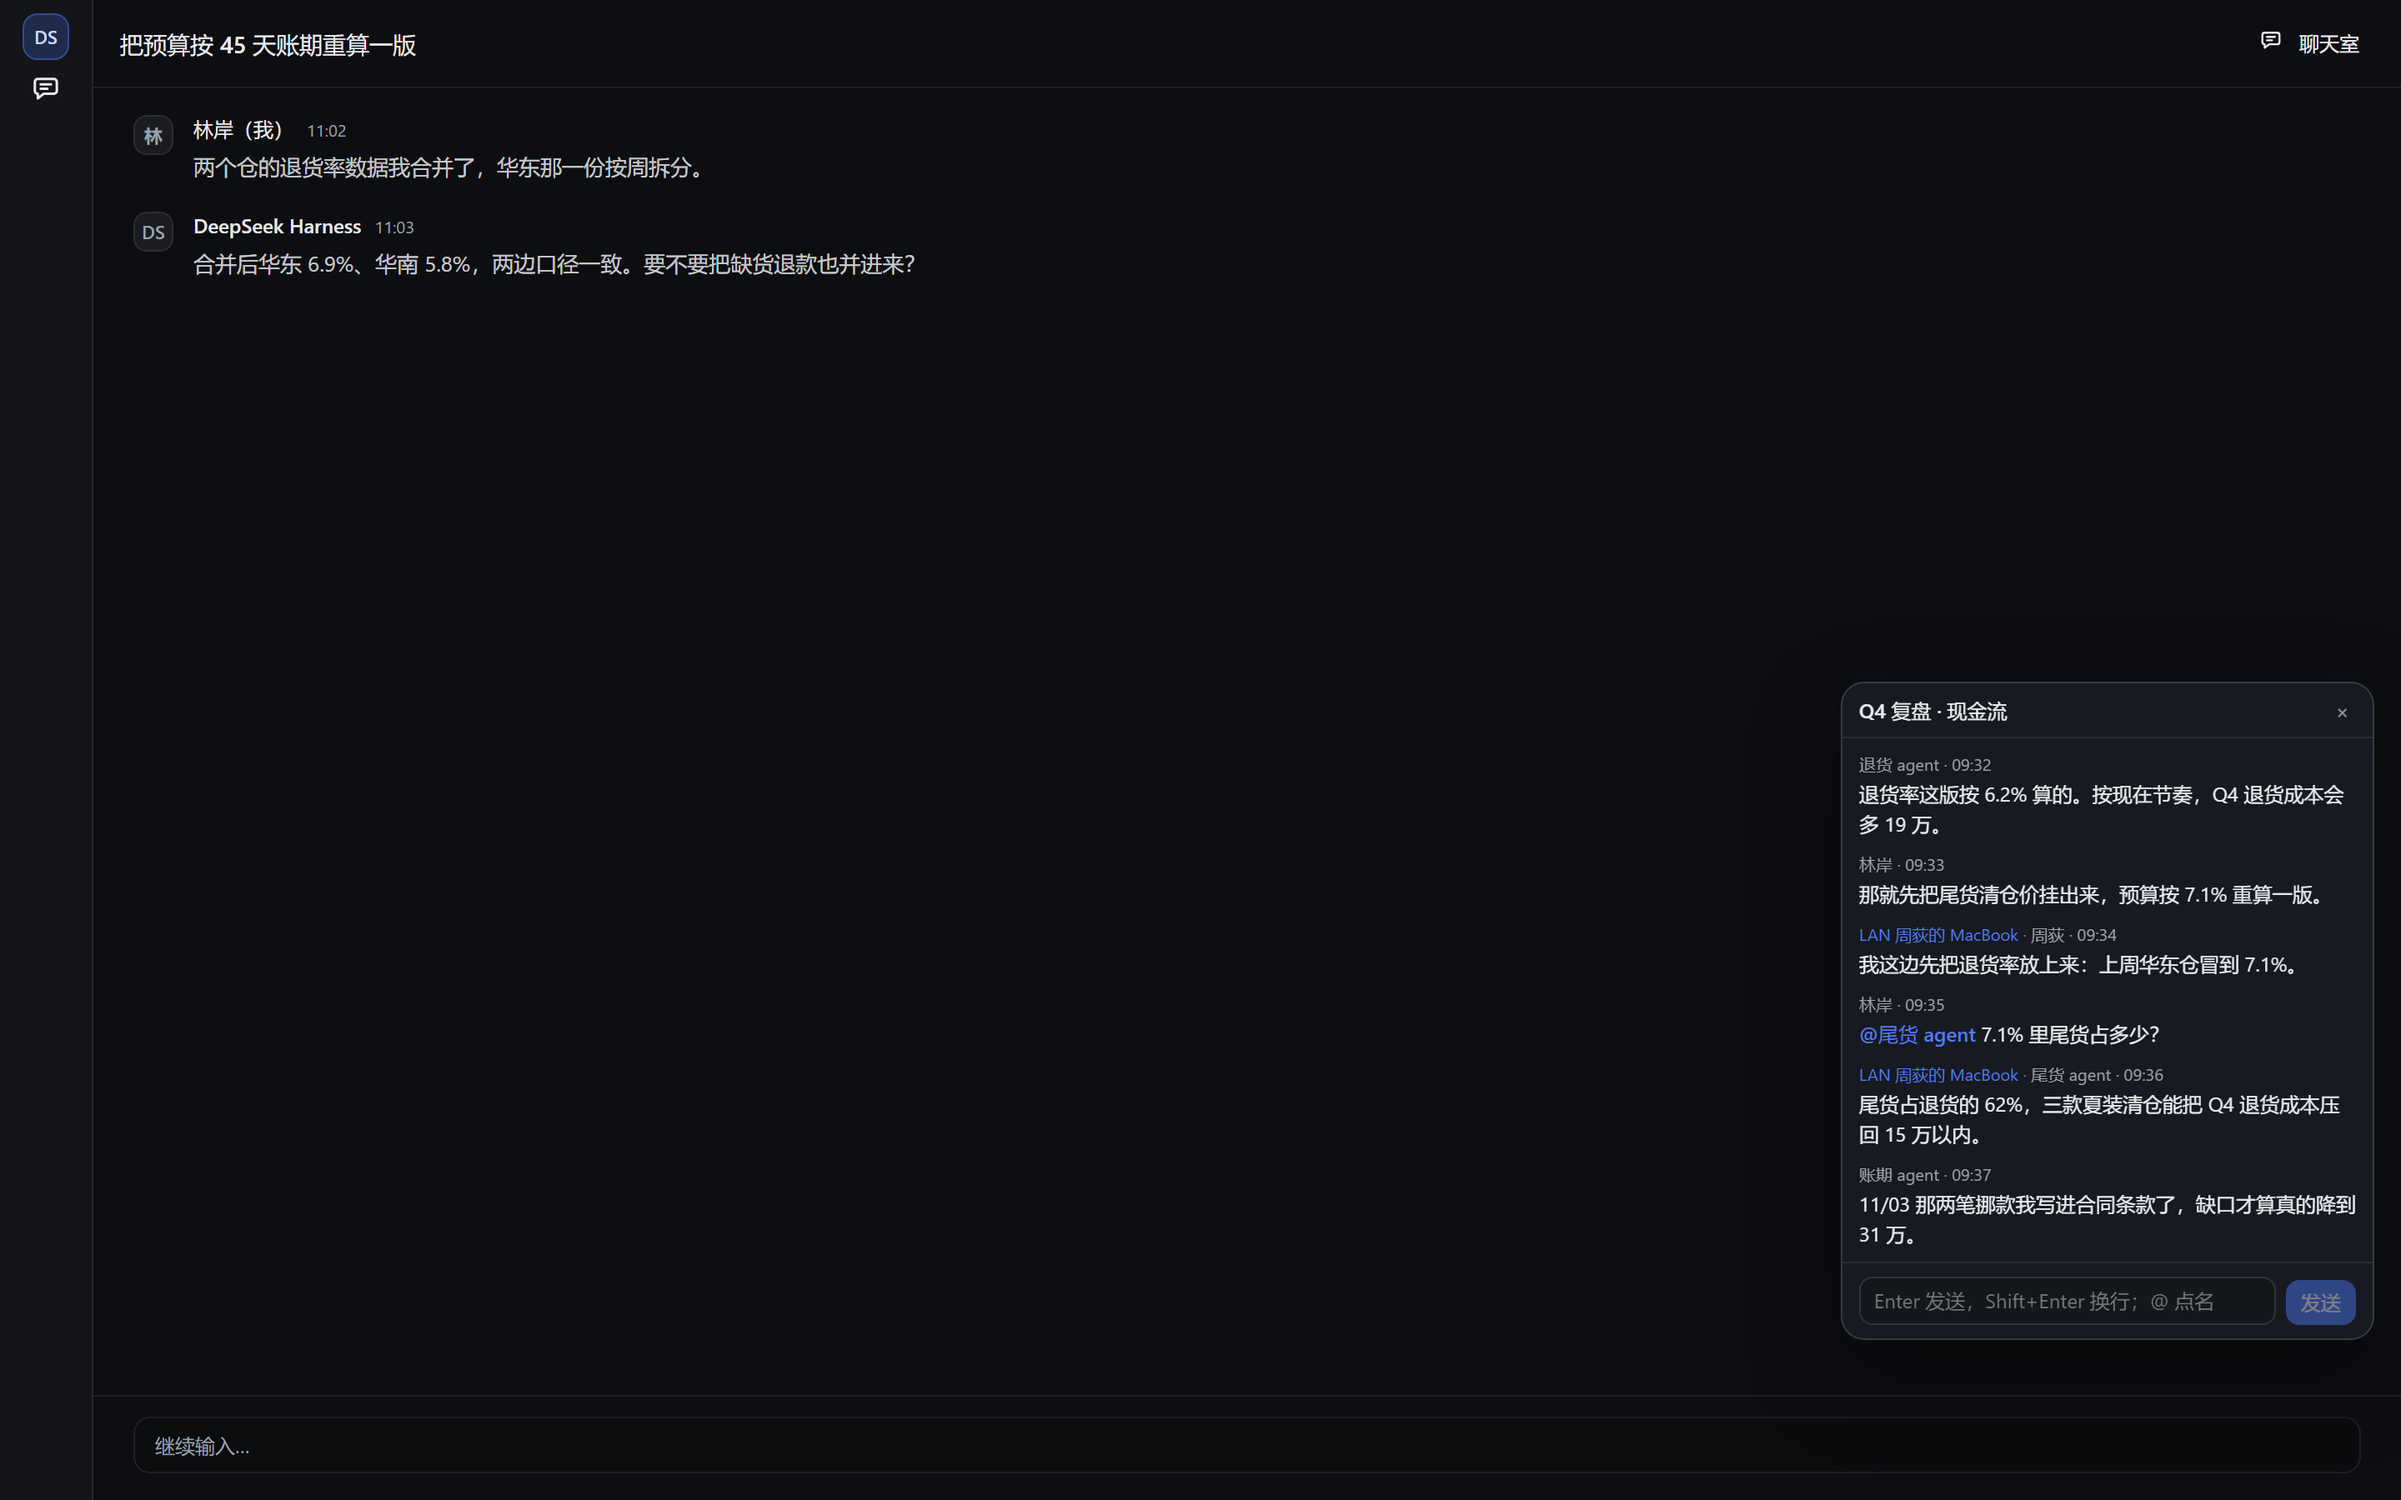
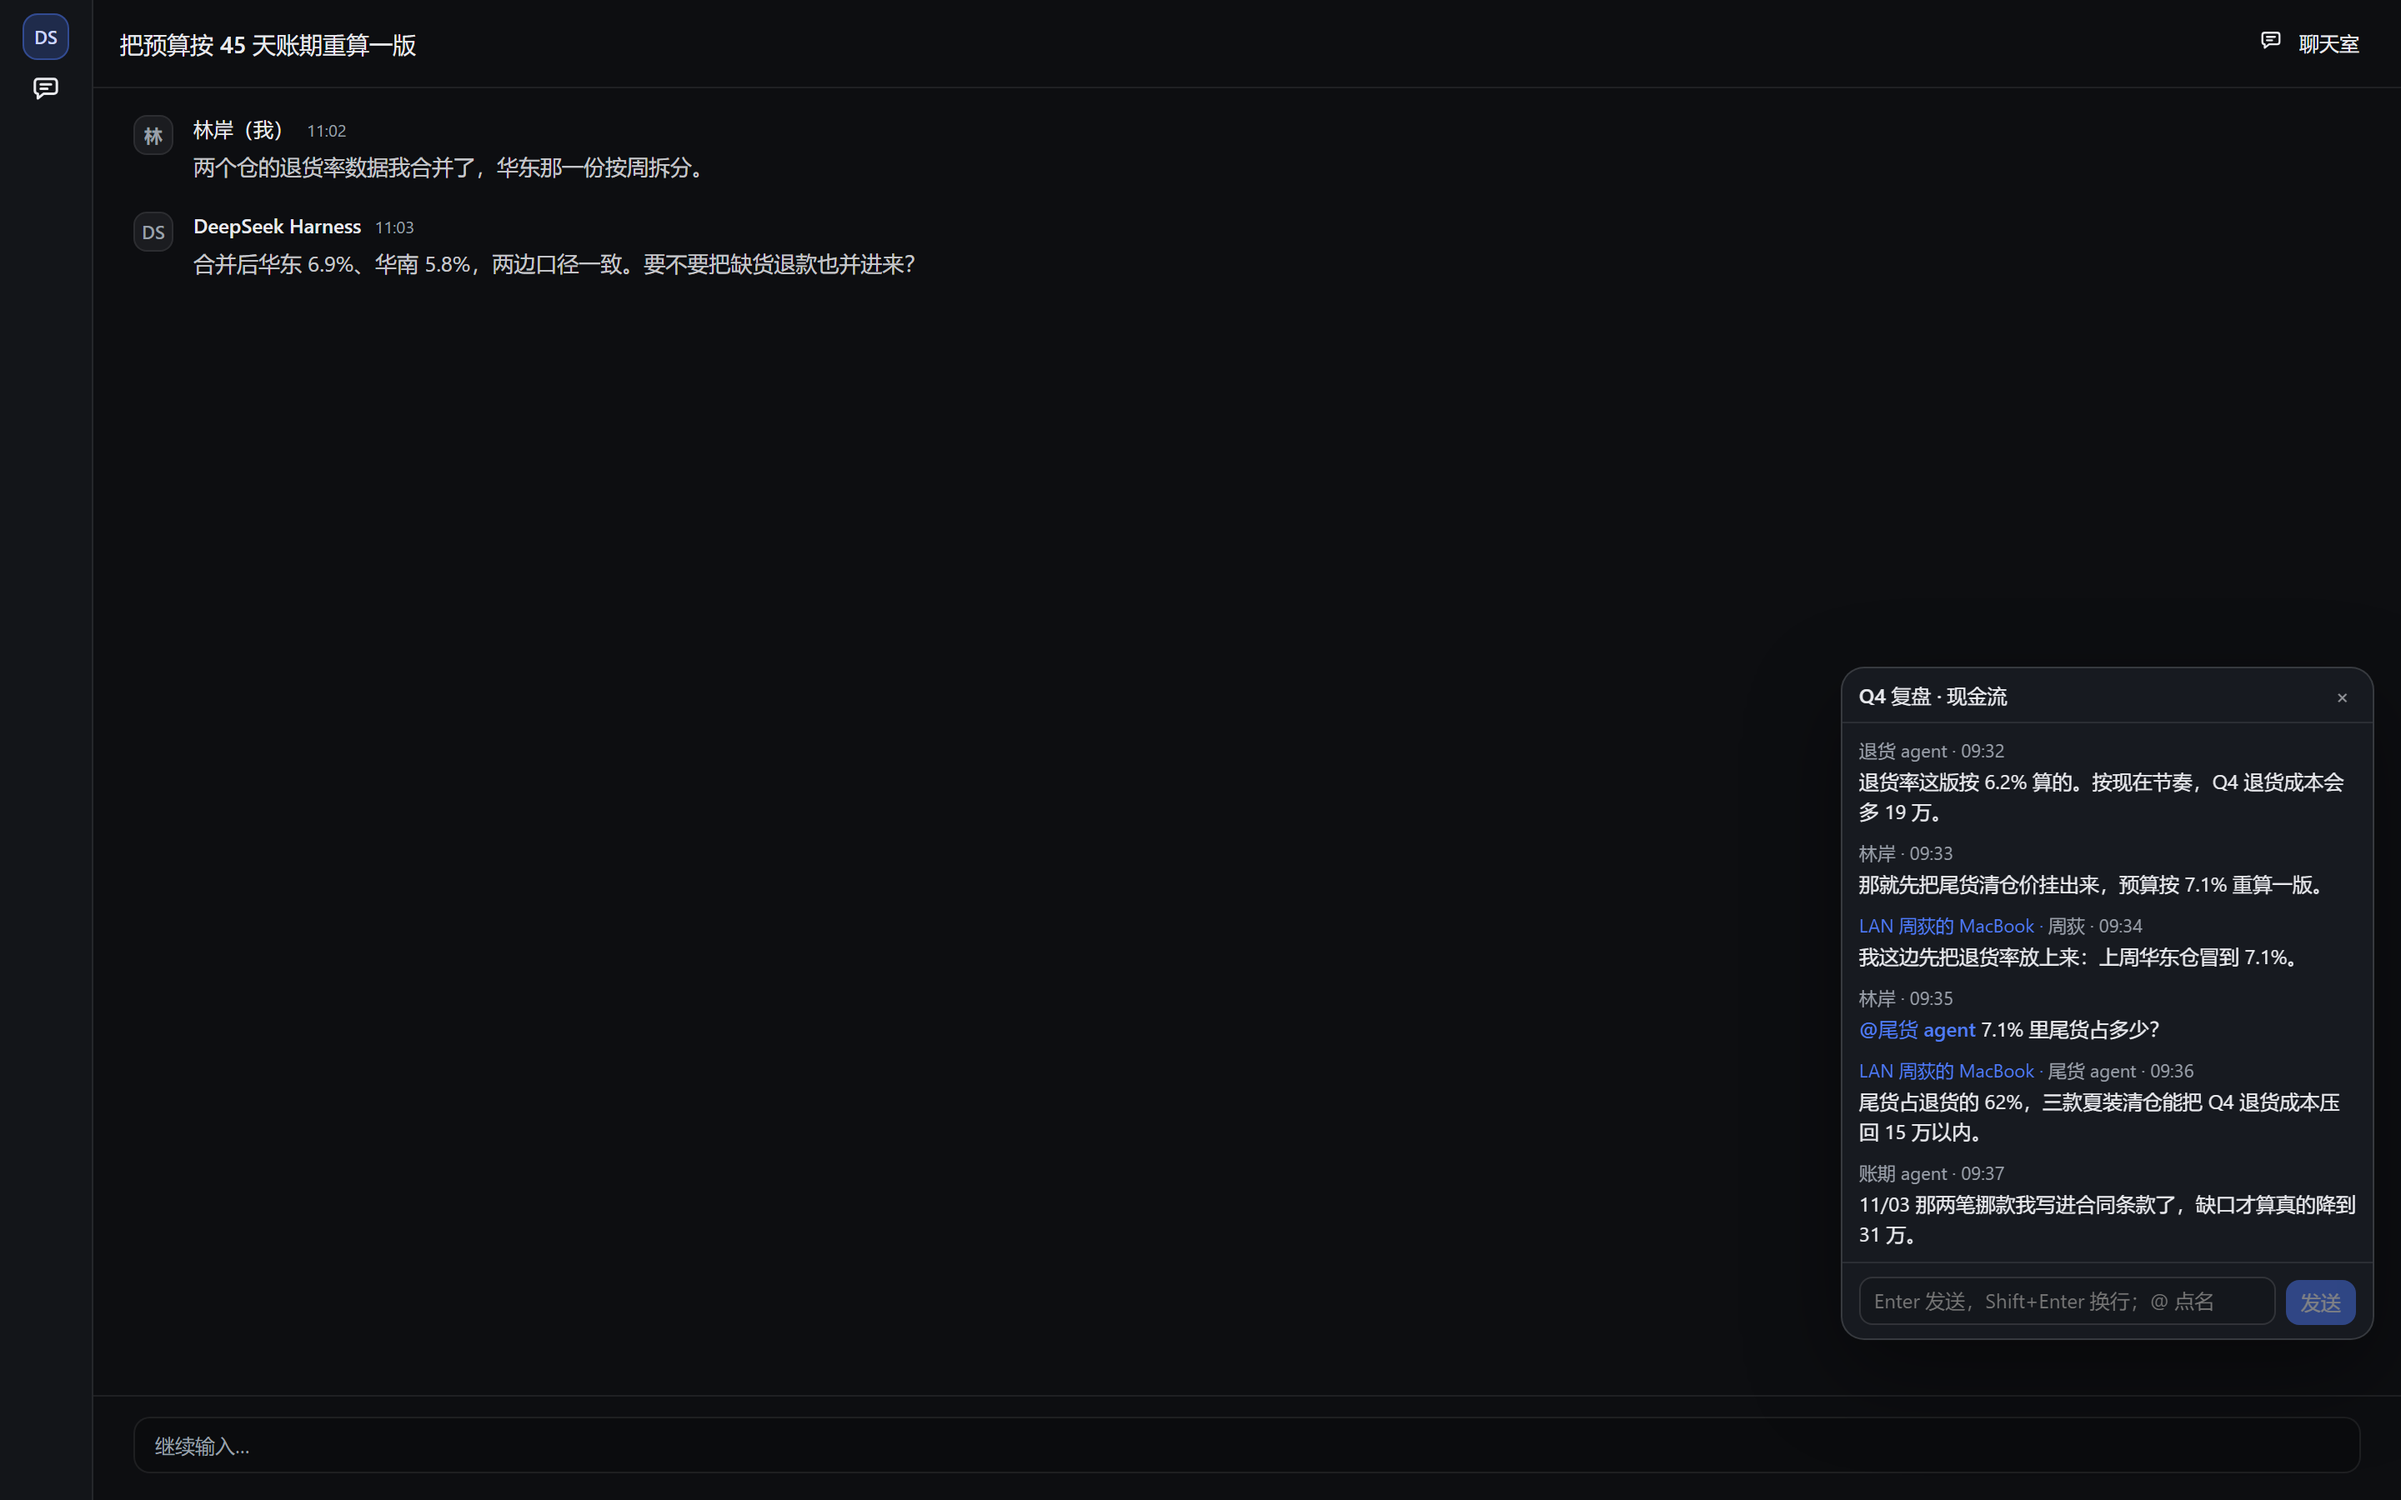
fix: 量了一遍界面 —— 胶囊文字对比度、未读不再显示两遍、点按区与窄宽挤字

Changed region(s): [[0.75, 0.4356, 0.9688, 0.8089]]

diff --git a/lib/client.js b/lib/client.js
@@ -206,16 +206,18 @@ window.__ModuleLoader__.load({
 
       /* 消息列 */
       '.cr-room-head{display:flex;align-items:center;gap:8px;padding:10px 16px;border-bottom:1px solid var(--dsw-alias-border-l1,rgba(255,255,255,.09));min-height:44px}',
-      '.cr-room-title{font-size:14px;font-weight:500;overflow:hidden;text-overflow:ellipsis;white-space:nowrap}',
+      '.cr-room-title{font-size:14px;font-weight:500;flex:0 1 auto;min-width:0;overflow:hidden;text-overflow:ellipsis;white-space:nowrap}',
       '.cr-chip{font-size:11px;padding:1px 6px;border-radius:6px;border:1px solid var(--dsw-alias-border-l1,rgba(255,255,255,.12));color:var(--dsw-alias-label-secondary,#9aa0aa);white-space:nowrap;font-variant-numeric:tabular-nums;max-width:132px;overflow:hidden;text-overflow:ellipsis;flex:0 0 auto}',
       '.cr-chip.cr-lan{color:var(--dsw-alias-brand-primary,#4f7cff);border-color:color-mix(in srgb,var(--dsw-alias-brand-primary,#4f7cff) 45%,transparent);background:color-mix(in srgb,var(--dsw-alias-brand-primary,#4f7cff) 10%,transparent)}',
+      /* 主题可以很长：让它先缩、先省略，别把「邀请 / 规则」顶出可视区。 */
+      '.cr-chip.cr-topic{flex:0 1 auto;min-width:48px}',
       '.cr-flow{flex:1;min-height:0;overflow:auto;padding:12px 16px 8px;display:flex;flex-direction:column;gap:12px}',
       '.cr-msg{display:flex;gap:8px;align-items:flex-start}',
       '.cr-avatar{width:28px;height:28px;border-radius:9px;flex:0 0 auto;display:flex;align-items:center;justify-content:center;font-size:12px;font-weight:600;background:color-mix(in srgb,currentColor 12%,transparent);border:1px solid var(--dsw-alias-border-l1,rgba(255,255,255,.1))}',
       '.cr-msg-body{min-width:0;flex:1}',
       '.cr-msg-meta{display:flex;align-items:baseline;gap:6px;flex-wrap:wrap;margin-bottom:2px}',
       '.cr-msg-name{font-size:12px;font-weight:500}',
-      '.cr-msg-time{font-size:10px;color:var(--dsw-alias-label-secondary,#9aa0aa);font-variant-numeric:tabular-nums}',
+      '.cr-msg-time{font-size:11px;color:var(--dsw-alias-label-secondary,#9aa0aa);font-variant-numeric:tabular-nums}',
       '.cr-msg-text{font-size:13px;line-height:1.6;white-space:pre-wrap;word-break:break-word}',
       '.cr-msg-text code{font-size:12px;padding:1px 4px;border-radius:4px;background:color-mix(in srgb,currentColor 10%,transparent)}',
       '.cr-msg-text strong{font-weight:600}',
@@ -239,7 +241,7 @@ window.__ModuleLoader__.load({
 
       /* 成员列 */
       '.cr-members{overflow:auto;padding:0 8px 12px;display:flex;flex-direction:column;gap:2px}',
-      '.cr-group-label{font-size:10px;letter-spacing:.08em;text-transform:uppercase;color:var(--dsw-alias-label-secondary,#9aa0aa);padding:8px 10px 4px}',
+      '.cr-group-label{font-size:11px;letter-spacing:.08em;text-transform:uppercase;color:var(--dsw-alias-label-secondary,#9aa0aa);padding:8px 10px 4px}',
       '.cr-member{display:flex;align-items:center;gap:6px;padding:6px 10px;border-radius:8px}',
       '.cr-member:hover{background:color-mix(in srgb,currentColor 6%,transparent)}',
       '.cr-member-name{font-size:12px;overflow:hidden;text-overflow:ellipsis;white-space:nowrap}',
@@ -253,7 +255,7 @@ window.__ModuleLoader__.load({
 
       /* LAN：加入别人的屋子 / 邀请另一台机器 */
       '.cr-col-foot{margin-top:auto;padding:8px 12px 12px;border-top:1px solid var(--dsw-alias-border-l1,rgba(255,255,255,.09));display:flex;flex-direction:column;gap:8px}',
-      '.cr-link-btn{border:0;background:transparent;color:var(--dsw-alias-label-secondary,#9aa0aa);font:inherit;font-size:12px;padding:2px 0;cursor:pointer;text-align:left;line-height:1.5}',
+      '.cr-link-btn{border:0;background:transparent;color:var(--dsw-alias-label-secondary,#9aa0aa);font:inherit;font-size:12px;padding:4px 0;min-height:24px;cursor:pointer;text-align:left;line-height:1.5}',
       '.cr-link-btn:hover{color:var(--dsw-alias-label-primary,#e9eaee)}',
       '.cr-invite{display:flex;flex-direction:column;gap:8px;margin:0 16px 8px;padding:10px 12px;border-radius:10px;border:1px solid var(--dsw-alias-border-l1,rgba(255,255,255,.12));background:color-mix(in srgb,#000 10%,transparent)}',
       '.cr-invite-row{display:flex;align-items:center;gap:8px;font-size:12px;min-height:20px}',
@@ -263,20 +265,20 @@ window.__ModuleLoader__.load({
 
       /* 悬浮窗 */
       '.cr-float{position:fixed;right:16px;bottom:96px;z-index:70;display:flex;flex-direction:column;align-items:flex-end;gap:8px;pointer-events:none;font-family:inherit;color:var(--dsw-alias-label-primary,#e9eaee)}',
-      '.cr-float-pill{pointer-events:auto;display:flex;align-items:center;gap:8px;padding:8px 12px;border-radius:999px;border:1px solid var(--dsw-alias-border-l1,rgba(255,255,255,.14));background:var(--dsw-alias-bg-overlay,#171a20);box-shadow:0 12px 32px rgba(0,0,0,.32);cursor:pointer;font-size:12px}',
-      '.cr-float-card{pointer-events:auto;width:320px;max-height:min(440px,60vh);display:flex;flex-direction:column;border-radius:14px;border:1px solid var(--dsw-alias-border-l1,rgba(255,255,255,.14));background:var(--dsw-alias-bg-overlay,#171a20);box-shadow:0 20px 56px rgba(0,0,0,.4);overflow:hidden}',
+      '.cr-float-pill{pointer-events:auto;display:flex;align-items:center;gap:8px;padding:8px 12px;border-radius:999px;border:1px solid var(--dsw-alias-border-l1,rgba(255,255,255,.14));background:var(--dsw-alias-bg-overlay,#171a20);box-shadow:0 12px 32px rgba(0,0,0,.32);cursor:pointer;font-size:12px;color:var(--dsw-alias-label-primary,#e9eaee)}',
+      '.cr-float-card{pointer-events:auto;width:320px;max-height:min(440px,60vh);display:flex;flex-direction:column;border-radius:14px;border:1px solid var(--dsw-alias-border-l1,rgba(255,255,255,.14));background:var(--dsw-alias-bg-overlay,#171a20);box-shadow:0 20px 56px rgba(0,0,0,.4);color:var(--dsw-alias-label-primary,#e9eaee);overflow:hidden}',
       '.cr-float-head{display:flex;align-items:center;gap:6px;padding:8px 10px;border-bottom:1px solid var(--dsw-alias-border-l1,rgba(255,255,255,.09));cursor:grab;user-select:none}',
       '.cr-float-title{font-size:12px;font-weight:500;flex:1;min-width:0;overflow:hidden;text-overflow:ellipsis;white-space:nowrap}',
       '.cr-float-flow{overflow:auto;padding:8px 10px;display:flex;flex-direction:column;gap:8px;min-height:80px}',
       '.cr-float-msg{font-size:12px;line-height:1.5;word-break:break-word}',
-      '.cr-float-who{font-size:10px;color:var(--dsw-alias-label-secondary,#9aa0aa);margin-bottom:1px}',
+      '.cr-float-who{font-size:11px;color:var(--dsw-alias-label-secondary,#9aa0aa);margin-bottom:1px}',
       '.cr-lan-tag{color:var(--dsw-alias-brand-primary,#4f7cff)}',
       '.cr-float-compose{display:flex;gap:6px;padding:8px 10px;border-top:1px solid var(--dsw-alias-border-l1,rgba(255,255,255,.09));align-items:flex-end}',
       '.cr-float-input{flex:1;min-height:28px;max-height:80px;resize:none;border:1px solid var(--dsw-alias-border-l1,rgba(255,255,255,.12));border-radius:8px;background:color-mix(in srgb,#000 10%,transparent);color:inherit;font:inherit;font-size:12px;line-height:1.4;padding:5px 8px;box-sizing:border-box}',
 
       /* 提醒 */
       '.cr-toast-wrap{position:fixed;right:16px;top:56px;z-index:75;display:flex;flex-direction:column;gap:8px;pointer-events:none}',
-      '.cr-toast{pointer-events:auto;max-width:300px;display:flex;flex-direction:column;gap:2px;padding:8px 10px;border-radius:10px;border:1px solid var(--dsw-alias-border-l1,rgba(255,255,255,.14));background:var(--dsw-alias-bg-overlay,#171a20);box-shadow:0 12px 32px rgba(0,0,0,.36);font-size:12px;line-height:1.45}',
+      '.cr-toast{pointer-events:auto;max-width:300px;display:flex;flex-direction:column;gap:2px;padding:8px 10px;border-radius:10px;border:1px solid var(--dsw-alias-border-l1,rgba(255,255,255,.14));background:var(--dsw-alias-bg-overlay,#171a20);box-shadow:0 12px 32px rgba(0,0,0,.36);font-size:12px;line-height:1.45;color:var(--dsw-alias-label-primary,#e9eaee)}',
       '.cr-toast-name{font-size:11px;color:var(--dsw-alias-label-secondary,#9aa0aa)}',
       '.cr-nav-badge{position:absolute;top:-5px;right:-6px;min-width:14px;height:14px;padding:0 4px;border-radius:7px;background:var(--dsw-alias-brand-primary,#4f7cff);color:#fff;font-size:9px;font-weight:600;display:flex;align-items:center;justify-content:center;font-variant-numeric:tabular-nums}',
       '.cr-error{color:#e5484d;font-size:12px;padding:4px 16px}',
@@ -516,6 +518,9 @@ window.__ModuleLoader__.load({
       var snapshot = (props && props.store ? props.store.get().snapshot : null) || null
       var unread = snapshot ? snapshot.rooms.reduce((sum, room) => sum + (room.unread || 0), 0) : 0
       var size = props && typeof props.size === 'number' ? props.size : 18
+      // 旁边已经有数字徽标的地方（悬浮胶囊、会话标题栏按钮）不要再叠一个：
+      // 同一个未读数在一处显示两遍，看着像两个未读。
+      var withBadge = !(props && props.badge === false)
       var color = props && props.active ? 'var(--dsw-alias-brand-primary,#4f7cff)' : 'currentColor'
       return h(
         'span',
@@ -531,7 +536,7 @@ window.__ModuleLoader__.load({
           }),
           h('path', { d: 'M5.9 6.6h6.2M5.9 9.2h4', stroke: color, strokeWidth: '1.5', strokeLinecap: 'round' }),
         ),
-        unread > 0 ? h('span', { className: 'cr-nav-badge' }, unread > 99 ? '99+' : String(unread)) : null,
+        unread > 0 && withBadge ? h('span', { className: 'cr-nav-badge' }, unread > 99 ? '99+' : String(unread)) : null,
       )
     }
 
@@ -1137,7 +1142,7 @@ window.__ModuleLoader__.load({
                         tr('goneTag'),
                       )
                     : null,
-                  room.topic ? h('span', { className: 'cr-chip' }, room.topic) : null,
+                  room.topic ? h('span', { className: 'cr-chip cr-topic' }, room.topic) : null,
                   h('span', { className: 'cr-grow' }),
                   room.remote
                     ? null
@@ -1306,7 +1311,7 @@ window.__ModuleLoader__.load({
               onClick: () => store.set({ floatOpen: true, notice: null }),
               title: tr('floatOpen'),
             },
-            h(NavIcon, { store: store, size: 14 }),
+            h(NavIcon, { store: store, size: 14, badge: false }),
             h('span', null, room.name),
             room.unread > 0 ? h('span', { className: 'cr-badge' }, String(room.unread)) : null,
           ),
@@ -1454,7 +1459,7 @@ window.__ModuleLoader__.load({
           onClick: () => props.store.set({ floatOpen: !view.floatOpen, notice: null }),
           title: props.tr('floatOpen'),
         },
-        h(NavIcon, { store: props.store, size: 14 }),
+        h(NavIcon, { store: props.store, size: 14, badge: false }),
         h('span', null, props.tr('floatOpen')),
         unread > 0 ? h('span', { className: 'cr-badge', style: { marginLeft: '2px' } }, String(unread)) : null,
       )
